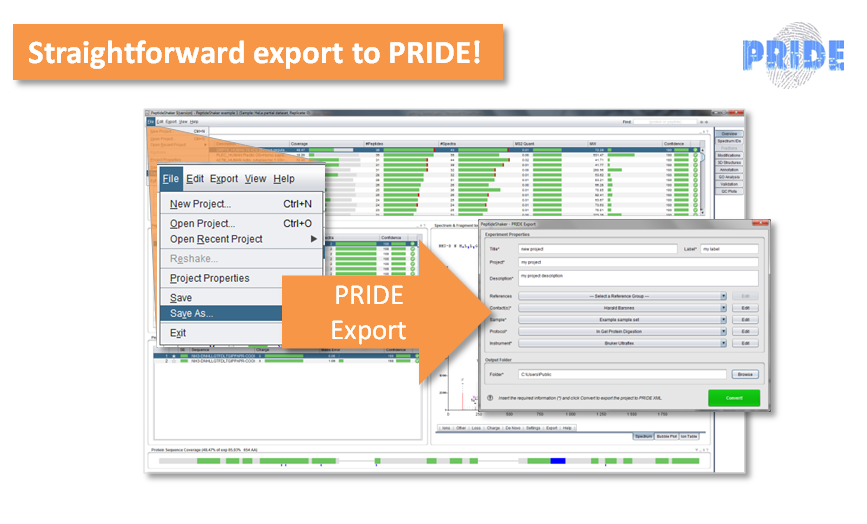
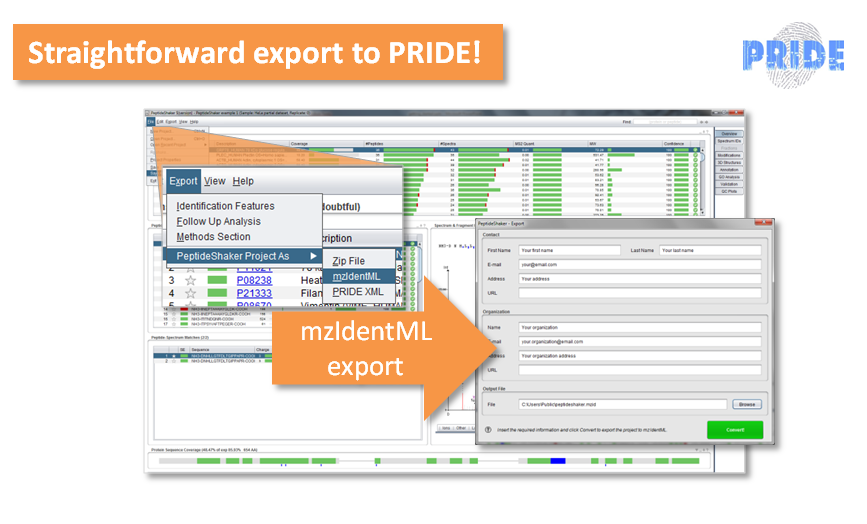
Updated the getting started slides. Changed the default PRIDE export to mzIdentML.

Changed region(s): [[0.1557, 0.2443, 0.9031, 0.8855]]

diff --git a/src/main/java/eu/isas/peptideshaker/gui/SaveDialog.java b/src/main/java/eu/isas/peptideshaker/gui/SaveDialog.java
@@ -1,6 +1,6 @@
 package eu.isas.peptideshaker.gui;
 
-import eu.isas.peptideshaker.gui.pride.ProjectExportDialog;
+import eu.isas.peptideshaker.gui.exportdialogs.MzIdentMLExportDialog;
 
 /**
  * A dialog for displaying the various save/export options.
@@ -81,7 +81,7 @@ public class SaveDialog extends javax.swing.JDialog {
         exportPrideJButton.setFont(exportPrideJButton.getFont().deriveFont(exportPrideJButton.getFont().getStyle() | java.awt.Font.BOLD, exportPrideJButton.getFont().getSize()+3));
         exportPrideJButton.setIcon(new javax.swing.ImageIcon(getClass().getResource("/icons/export_pride.png"))); // NOI18N
         exportPrideJButton.setText("Export to PRIDE");
-        exportPrideJButton.setToolTipText("Export the PeptideShaker project as PRIDE XML.");
+        exportPrideJButton.setToolTipText("Export the PeptideShaker project as mzIdentML.");
         exportPrideJButton.setFocusPainted(false);
         exportPrideJButton.setHorizontalAlignment(javax.swing.SwingConstants.LEFT);
         exportPrideJButton.setIconTextGap(25);
@@ -114,7 +114,7 @@ public class SaveDialog extends javax.swing.JDialog {
         exportZipLabel.setText("Export the project as a zip file");
 
         exportPrideLabel.setFont(exportPrideLabel.getFont().deriveFont((exportPrideLabel.getFont().getStyle() | java.awt.Font.ITALIC) | java.awt.Font.BOLD, exportPrideLabel.getFont().getSize()+1));
-        exportPrideLabel.setText("Export the project as PRIDE XML");
+        exportPrideLabel.setText("Export the project as mzIdentML");
 
         javax.swing.GroupLayout backgroundPanelLayout = new javax.swing.GroupLayout(backgroundPanel);
         backgroundPanel.setLayout(backgroundPanelLayout);
@@ -201,7 +201,7 @@ public class SaveDialog extends javax.swing.JDialog {
      */
     private void exportPrideJButtonActionPerformed(java.awt.event.ActionEvent evt) {//GEN-FIRST:event_exportPrideJButtonActionPerformed
         dispose();
-        new ProjectExportDialog(peptideShakerGUI, true);
+        new MzIdentMLExportDialog(peptideShakerGUI, true);
     }//GEN-LAST:event_exportPrideJButtonActionPerformed
 
     /**
